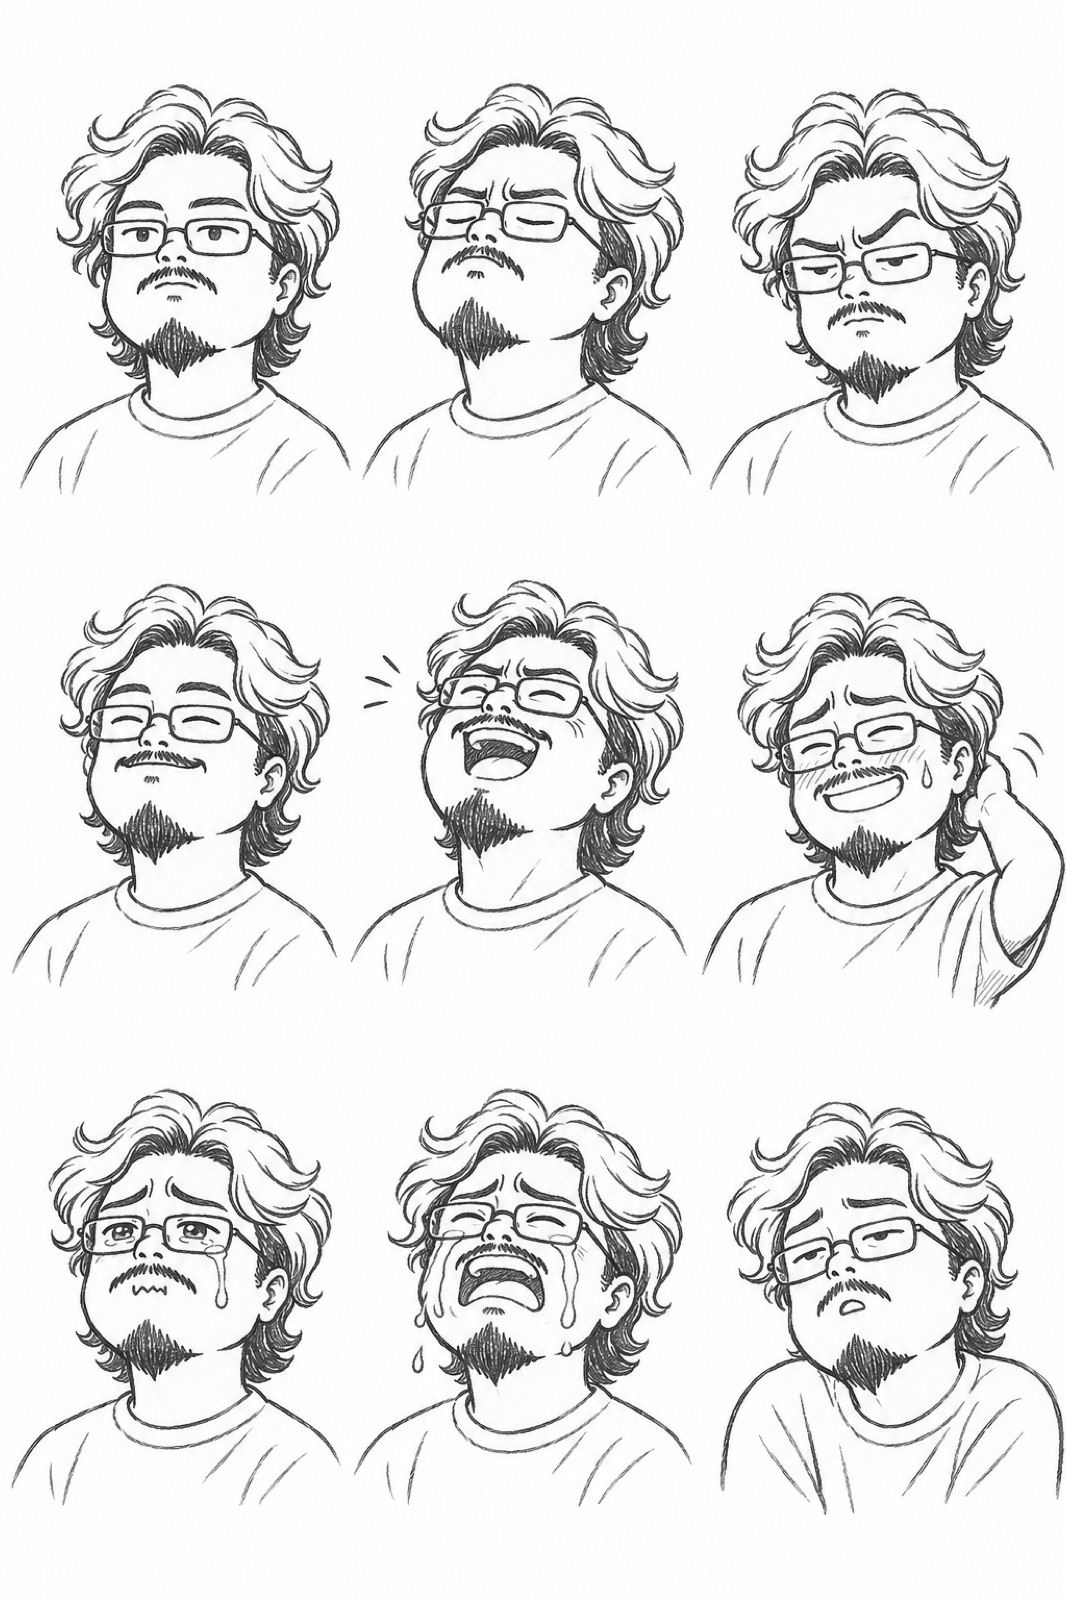
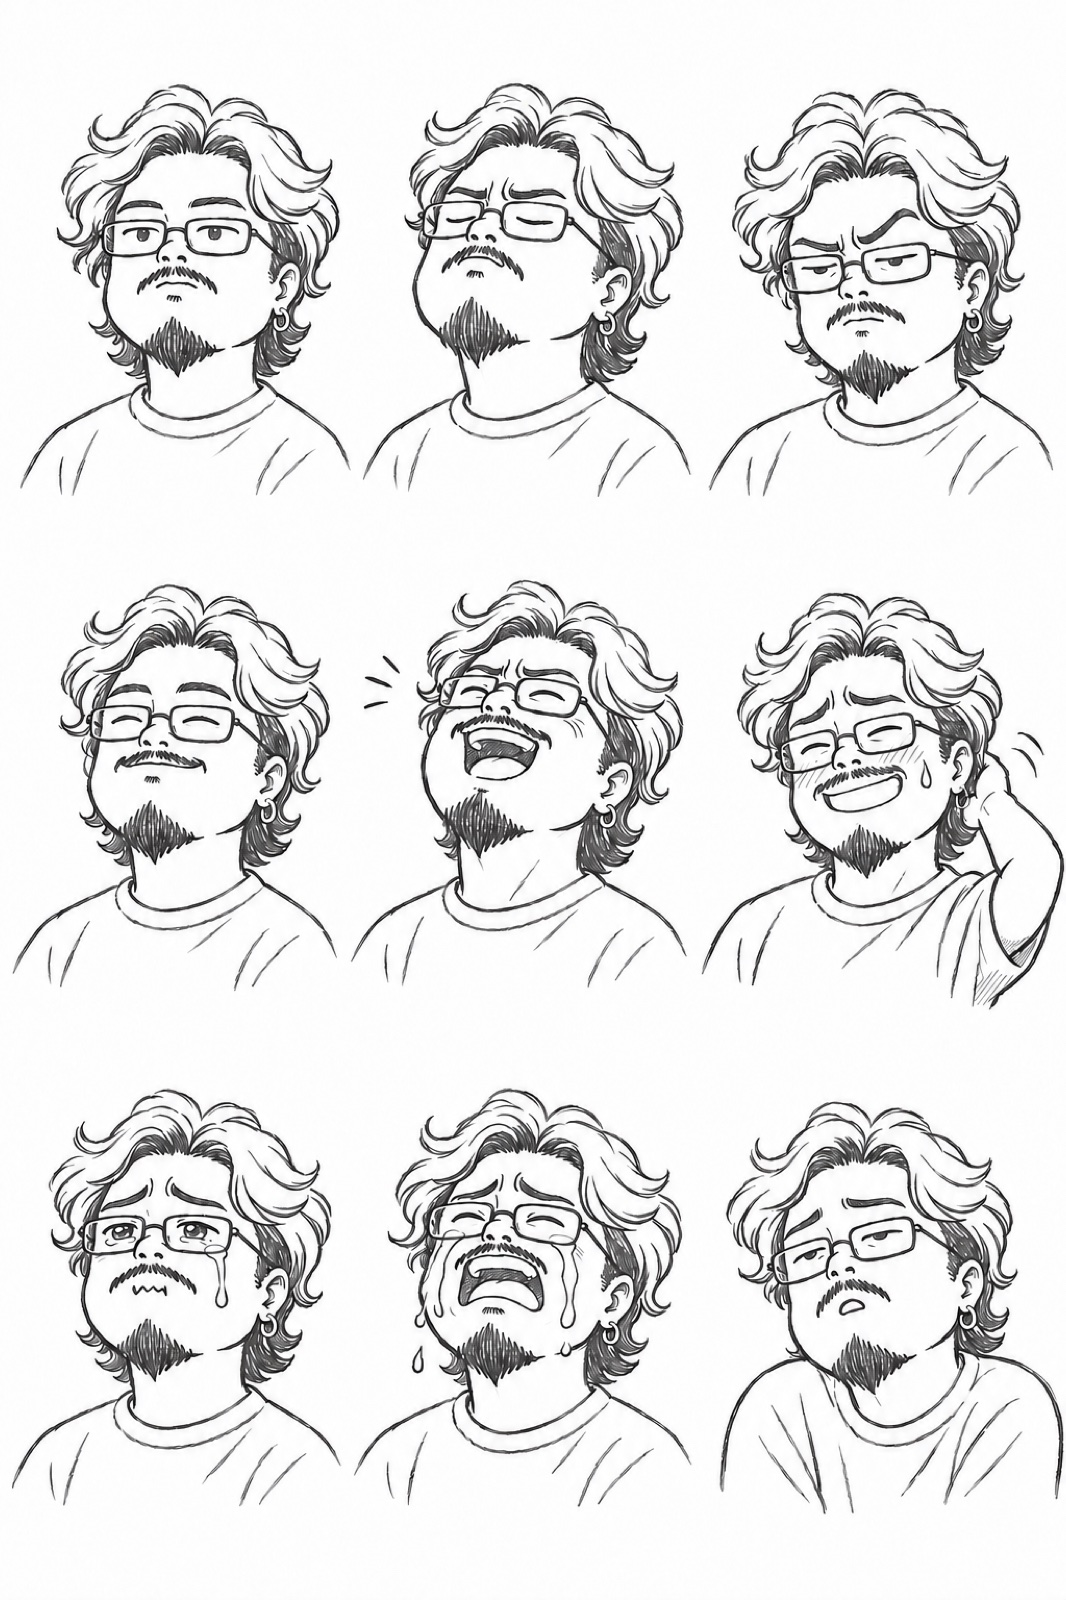
dkdk-caricature: 링귀걸이를 시그니처 6으로 추가 (#8)
* dkdk-caricature: 캡션을 선택 사항으로, 테스트 예시 3장 추가

Claude-Session: https://claude.ai/code/session_01R59GhJPu3CmsHq6zTyP2VL

* dkdk-caricature: 모델시트·표정 시트 추가, 웃음·울음 입 벌림 예외

- assets/model-sheet.jpg: 턴어라운드 4 + 포즈 4 + 표정 5
- assets/expression-sheet.jpg: 3x3 표정 (무표정·미소·폭소·멋쩍음·글썽·오열 추가)
- 생성 시 원화 → 모델시트 → 표정 시트 순으로 -i 첨부
- 윗머리는 채우지 않음 명시, 웃음·울음만 입 벌림 허용

Claude-Session: https://claude.ai/code/session_01R59GhJPu3CmsHq6zTyP2VL

* dkdk-caricature: 링귀걸이를 시그니처 6으로 추가, 모델·표정 시트 교체

원화의 작은 링귀걸이를 규칙·프롬프트·QA에 반영하고, 링이 들어간
모델시트(B+링)와 표정 시트(05-B)로 assets를 교체.

Claude-Session: https://claude.ai/code/session_01R59GhJPu3CmsHq6zTyP2VL

---------

diff --git a/dkdk-caricature/references/character.md b/dkdk-caricature/references/character.md
@@ -2,18 +2,19 @@
 
 기준: `assets/reference-original.jpg`. 보드(시각 버전): https://claude.ai/artifact/8wSrprmQcGnH1ospTravD2
 
-## 시그니처 5 — 하나라도 빠지면 다른 사람
+## 시그니처 6 — 하나라도 빠지면 다른 사람
 
 1. 가르마 없이 뒤로 넘긴 **웨이브 장발** (목덜미까지)
 2. **얇은 사각 메탈 안경** (가로로 긴 사각, 모서리만 살짝 둥글게)
 3. 양끝이 입꼬리 아래로 처지는 **팔자 콧수염**
 4. 아래로 뾰족한 **삼각 턱수염** (진한 채움)
 5. 로고 없는 **무지 반팔 크루넥 티**
+6. 보이는 귓불에 걸린 **작은 링귀걸이** (가는 메탈 후프, 연필 한두 획)
 
 ## 부위별
 
 - **헤어**: 앞머리를 이마 위로 크게 넘긴 볼륨, 가운데 살짝 갈라짐. 굵은 S자 결 3–5가닥으로 덩어리 표현(한 올씩 그리지 않음). 끝은 바깥으로 말림.
-- **옆머리·귀**: 귀가 반쯤 드러남. 귀 뒤 안쪽 머리는 솔리드 연필 채움. 귀는 C자 + 안쪽 짧은 곡선 2개.
+- **옆머리·귀**: 귀가 반쯤 드러남. 귀 뒤 안쪽 머리는 솔리드 연필 채움. 귀는 C자 + 안쪽 짧은 곡선 2개. 귓불에 귓불만 한 작은 링귀걸이(가는 원 한두 획). 보이는 귀마다 단다. 다른 장신구 없음.
 - **안경·눈**: 렌즈가 눈썹 바로 아래까지 올라옴, 다리가 귀로 이어짐. 미간 주름 2–3줄, 짧고 진한 눈썹. 기본 눈은 아래로 휜 감은 눈 곡선.
 - **수염**: 콧수염은 가운데가 얇음. 아랫입술 밑 작은 패치. 턱수염은 삼각형 진한 채움 + 거친 끝. 볼·구레나룻 수염 없음.
 - **코·입**: 넓은 콧망울 + 콧구멍 두 점, 콧대 선 거의 생략. 다문 작은 입, 이 안 보임.
@@ -50,6 +51,6 @@
 
 ## Do / Don't
 
-Do: 시그니처 5 전부 / 흑연 단색 / 채움 세 군데(윗머리는 채우지 않음) / 입 다문 deadpan(웃음·울음만 예외) / 소품 하나 (+ 선택 캡션) / 3:4 바스트업
+Do: 시그니처 6 전부 / 흑연 단색 / 채움 세 군데(윗머리는 채우지 않음) / 입 다문 deadpan(웃음·울음만 예외) / 소품 하나 (+ 선택 캡션) / 3:4 바스트업
 
-Don't: 둥근 안경·뿔테 / 짧은 머리·묶은 머리(맨번은 dkdk-walrus 전용) / 수염 없음·풀 수염 / 컬러·회색 블렌딩·매끈한 디지털 선 / 큰 눈·반짝이는 눈 / 웃음·울음이 아닌 장면에서 벌린 입 / 윗머리 전체를 진하게 채우기 / 엄니·지느러미 등 바다코끼리 요소 / 배경·말풍선·좌상단 제목
+Don't: 링귀걸이 빠짐·큰 귀걸이·다른 장신구 / 둥근 안경·뿔테 / 짧은 머리·묶은 머리(맨번은 dkdk-walrus 전용) / 수염 없음·풀 수염 / 컬러·회색 블렌딩·매끈한 디지털 선 / 큰 눈·반짝이는 눈 / 웃음·울음이 아닌 장면에서 벌린 입 / 윗머리 전체를 진하게 채우기 / 엄니·지느러미 등 바다코끼리 요소 / 배경·말풍선·좌상단 제목

diff --git a/dkdk-caricature/references/qa-checklist.md b/dkdk-caricature/references/qa-checklist.md
@@ -3,7 +3,7 @@
 ## 필수 통과
 
 - 3:4 세로, 흰 종이 배경, 색 없음.
-- 시그니처 5 전부: 웨이브 장발 / 얇은 사각 메탈 안경 / 팔자 콧수염 / 삼각 턱수염 / 무지 반팔티.
+- 시그니처 6 전부: 웨이브 장발 / 얇은 사각 메탈 안경 / 팔자 콧수염 / 삼각 턱수염 / 무지 반팔티 / 보이는 귓불의 작은 링귀걸이.
 - 원화와 같은 사람으로 보인다 (얼굴형, 코, 귀, 미간).
 - 선이 연필 단일 굵기, 진한 채움은 세 군데 이내.
 - 입 다문 deadpan(웃음·울음 표정만 입 벌림 허용). 윗머리가 진하게 채워지지 않음. 소품 하나.
@@ -17,6 +17,7 @@
 | 안경이 둥글거나 뿔테 | 아이덴티티 보정 프롬프트로 부분 수정 |
 | 머리가 짧아지거나 묶임 | 재생성 (hair 문장 강조) |
 | 수염 빠짐 / 풀 수염 | 부분 수정 |
+| 링귀걸이 빠짐·커짐 | 부분 수정 ("small thin hoop earring on the visible earlobe") |
 | 회색 그라데이션·디지털 선 | "no gray shading, pencil only" 강조 재생성 |
 | 요청하지 않은 웃는 입·큰 눈·귀여움 | "deadpan, closed mouth, not cute" 강조 재생성 |
 | 윗머리가 검게 채워짐 | "top of the hair loosely sketched, not filled" 강조 재생성 |

diff --git a/dkdk-caricature/references/prompt-template.md b/dkdk-caricature/references/prompt-template.md
@@ -21,6 +21,7 @@ The first attached image is the official reference drawing. The second is his mo
 - Brow: 2-3 short frown lines between the eyebrows.
 - Facial hair: drooping mustache thin in the middle, ends falling past the mouth corners; a small patch under the lower lip; a pointed downward-triangle chin beard filled dark with rough edges. No cheek beard, no sideburn beard.
 - Nose: wide nostrils, two dots, almost no bridge line. Mouth: small and closed, no teeth (only a laughing or crying expression may open it).
+- Earring: a small thin metal hoop earring (a simple ring about the size of the earlobe, one or two pencil strokes) on every visible earlobe. No other jewelry.
 - Clothing: plain crew-neck short-sleeve t-shirt, no logo or pattern.
 
 Line style:

diff --git a/dkdk-caricature/README.md b/dkdk-caricature/README.md
@@ -8,7 +8,7 @@
 
 ![reference](assets/reference-original.jpg)
 
-시그니처: 웨이브 장발 · 얇은 사각 메탈 안경 · 팔자 콧수염 · 삼각 턱수염 · 무지 반팔티.
+시그니처: 웨이브 장발 · 얇은 사각 메탈 안경 · 팔자 콧수염 · 삼각 턱수염 · 무지 반팔티 · 작은 링귀걸이.
 
 ## 구성
 
